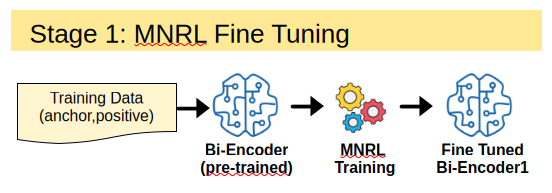
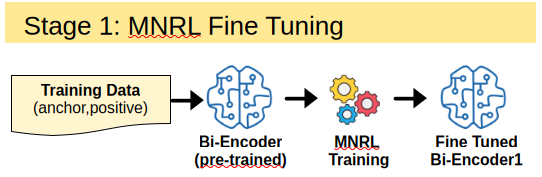
lecture

Changed region(s): [[0.0, 0.3672, 0.9742, 0.9605], [0.0, 0.0, 1.0, 0.2825], [0.5904, 0.7345, 0.738, 0.9605]]

diff --git a/navbar/Lectures.html b/navbar/Lectures.html
@@ -624,6 +624,7 @@ Built using 🤗 Hugging Face pipelines and pretrained computer vision models.<b
 
                 <!-- weaviate is hard to set up and hard to use verses chroma so we will use chroma, BUT weaviate will do hybrid search automatically, chromaDB will not<br><br> -->
                  <strong>NOTE: The following 2 projects require pdfs in the notebooks ./pdf directory</strong><br><br>
+                 <!-- <a href="https://github.com/CNUClasses/471_code/blob/master/week12/Vector_Search_Toy_Plots_kNN_IVF_HNSW.ipynb">KNN, NSW and HNSW plots</a> -->
                 <!-- <img src="https://raw.githubusercontent.com/CNUClasses/CPSC471/master/content/lectures/week12/vector_upsert_pipeline.png" alt="standard" style="max-height:100px;  margin:10px 0; vertical-align:middle;"><br> -->
                 <table class="inner-table">
                     <tr >
@@ -772,7 +773,7 @@ Built using 🤗 Hugging Face pipelines and pretrained computer vision models.<b
                </ul>
 
                 <strong style="color: #cc0000">Final Exam, 12/13/25 8am-10:30am Comprehensive, includes all content on course website from week 1 thru week 15 and all projects.<br>
-                      For week 15 notebooks I want you to understand the procedures and the reasons why.  I have provided the code for all 4 stages of fine tuning just in case you want to extend your final project into a capstone. </strong>
+                      For week 15 notebooks I want you to understand the process and the procedures only.  I have provided the code for all 4 stages of fine tuning just in case you want to extend your final project into a capstone. </strong>
 
 
                 
